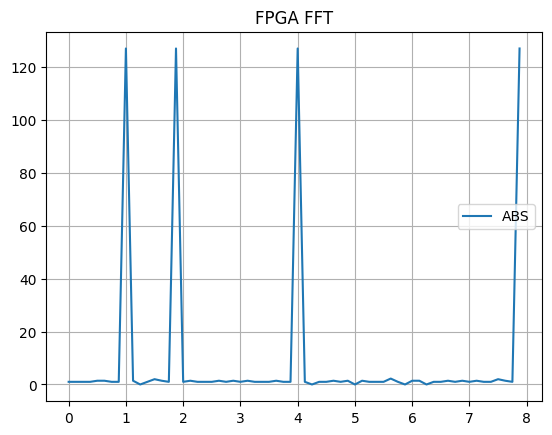
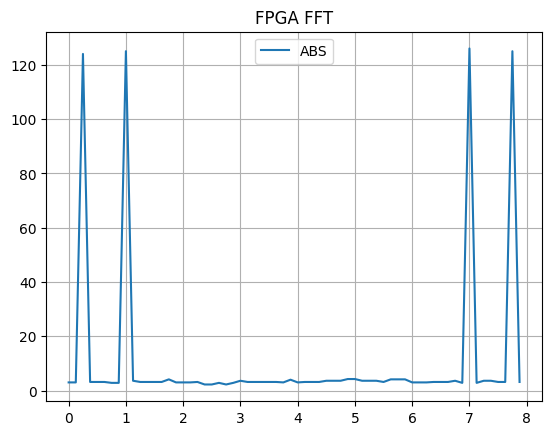
update README
add some images

Changed region(s): [[0.0308, 0.0897, 0.9855, 0.8966], [0.0308, 0.8667, 0.0924, 0.9264], [0.0308, 0.3885, 0.0616, 0.4184]]

diff --git a/README.md b/README.md
@@ -4,6 +4,10 @@ FFT algorithm implementation on an FPGA for processing  `2^N`  points from the B
 
 ## FFT 64 points
 
+The picture below shows the comparison between the NumPy FFT and the FPGA FFT, given the same input:
+
+![FFT result](FFT_result.png)
+
 The picture below shows the FFT simulation on ModelSim-Altera:
 
 ![ModelSim](ModelSim.png)
